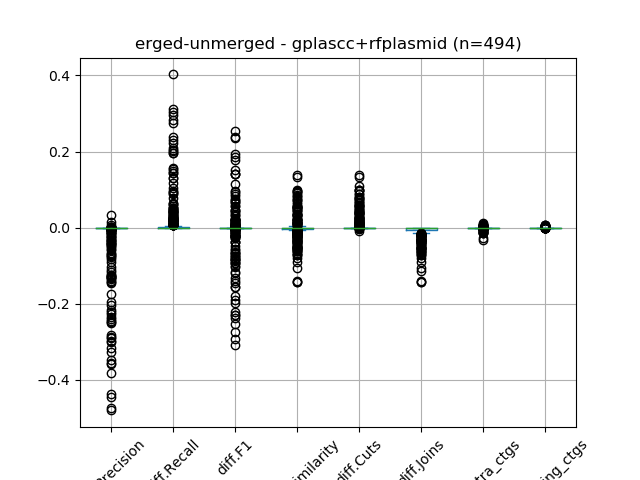
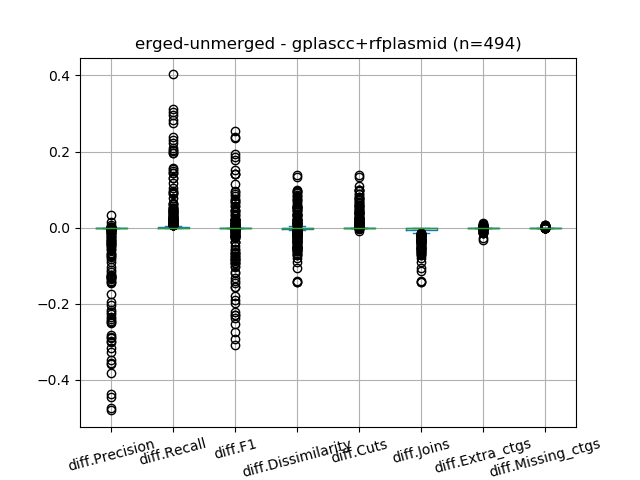
difference figures

Changed region(s): [[0.0938, 0.9062, 0.9375, 1.0]]

diff --git a/exp_20250802/analysis_utils.py b/exp_20250802/analysis_utils.py
@@ -363,7 +363,7 @@ def create_unmerged_vs_merged_difference_boxplot(
         plot_df = plot_df_aux[diff_cols]
     nb_data_points = plot_df.shape[0]
 
-    plot_df.plot.box(grid=True, rot=45)
+    plot_df.plot.box(grid=True, rot=15)
     plt.xlabel(diff_cols)
     plt.title(f"{out_title} (n={nb_data_points})")
     plt.savefig(out_file)
